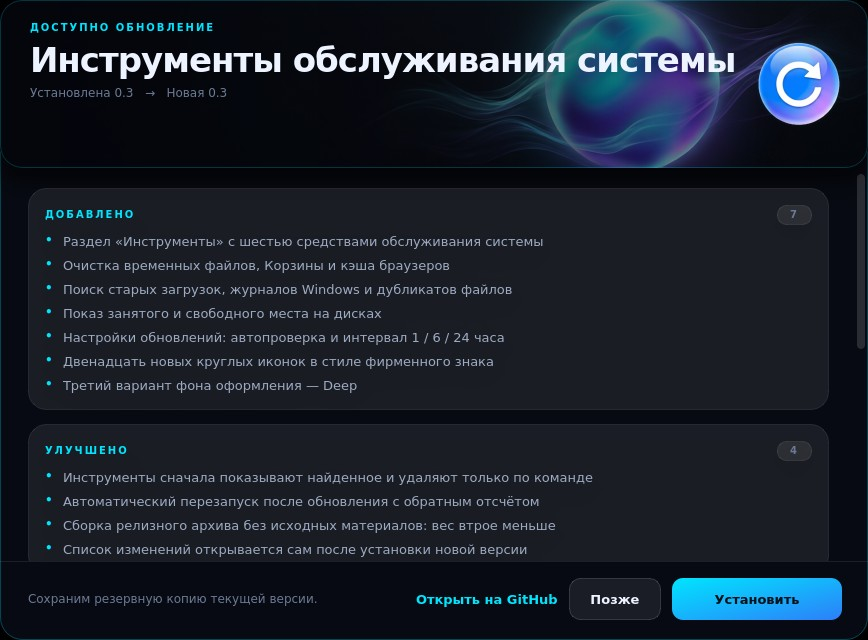
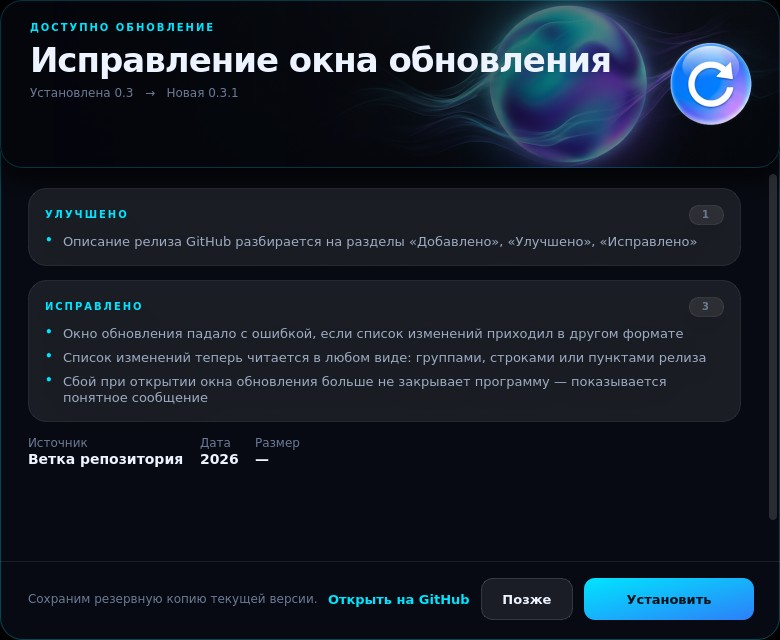
0.3.1: дата и размер обновления в окне релиза

diff --git a/lifeos/update_ui.py b/lifeos/update_ui.py
@@ -28,6 +28,14 @@ TYPE_TITLES = {
 }
 
 
+def _human_date(iso: str) -> str:
+    """2026-09-15 -> 15.09.2026."""
+    parts = (iso or "").split("-")
+    if len(parts) == 3 and all(parts):
+        return f"{parts[2][:2]}.{parts[1]}.{parts[0]}"
+    return iso or "—"
+
+
 class ProgressBar(GlowAware, QWidget):
     """Полоса загрузки с плавным подтягиванием значения."""
 
@@ -176,8 +184,8 @@ class UpdateWindow(QWidget):
         info_row = QHBoxLayout()
         info_row.setSpacing(16)
         src = "Релиз GitHub" if info.source == "release" else "Ветка репозитория"
-        for k, v in (("Источник", src), ("Дата", info.published or "—"),
-                     ("Размер", f"{info.size / 1048576:.1f} МБ" if info.size else "—")):
+        for k, v in (("Источник", src), ("Дата", _human_date(info.published)),
+                     ("Размер", f"{info.size / 1048576:.0f} МБ" if info.size else "—")):
             c = QVBoxLayout()
             c.setSpacing(1)
             c.addWidget(make_label(k, "Caption"))

diff --git a/lifeos/updater.py b/lifeos/updater.py
@@ -198,6 +198,7 @@ def check_for_update() -> UpdateInfo:
             changes=normalize_changes(data.get("changes")),
             url=data.get("url") or BRANCH_ZIP,
             page=data.get("page") or BRANCH_PAGE,
+            size=int(data.get("size") or 0),
             published=data.get("date", ""),
             source="branch",
             available=is_newer(version),
